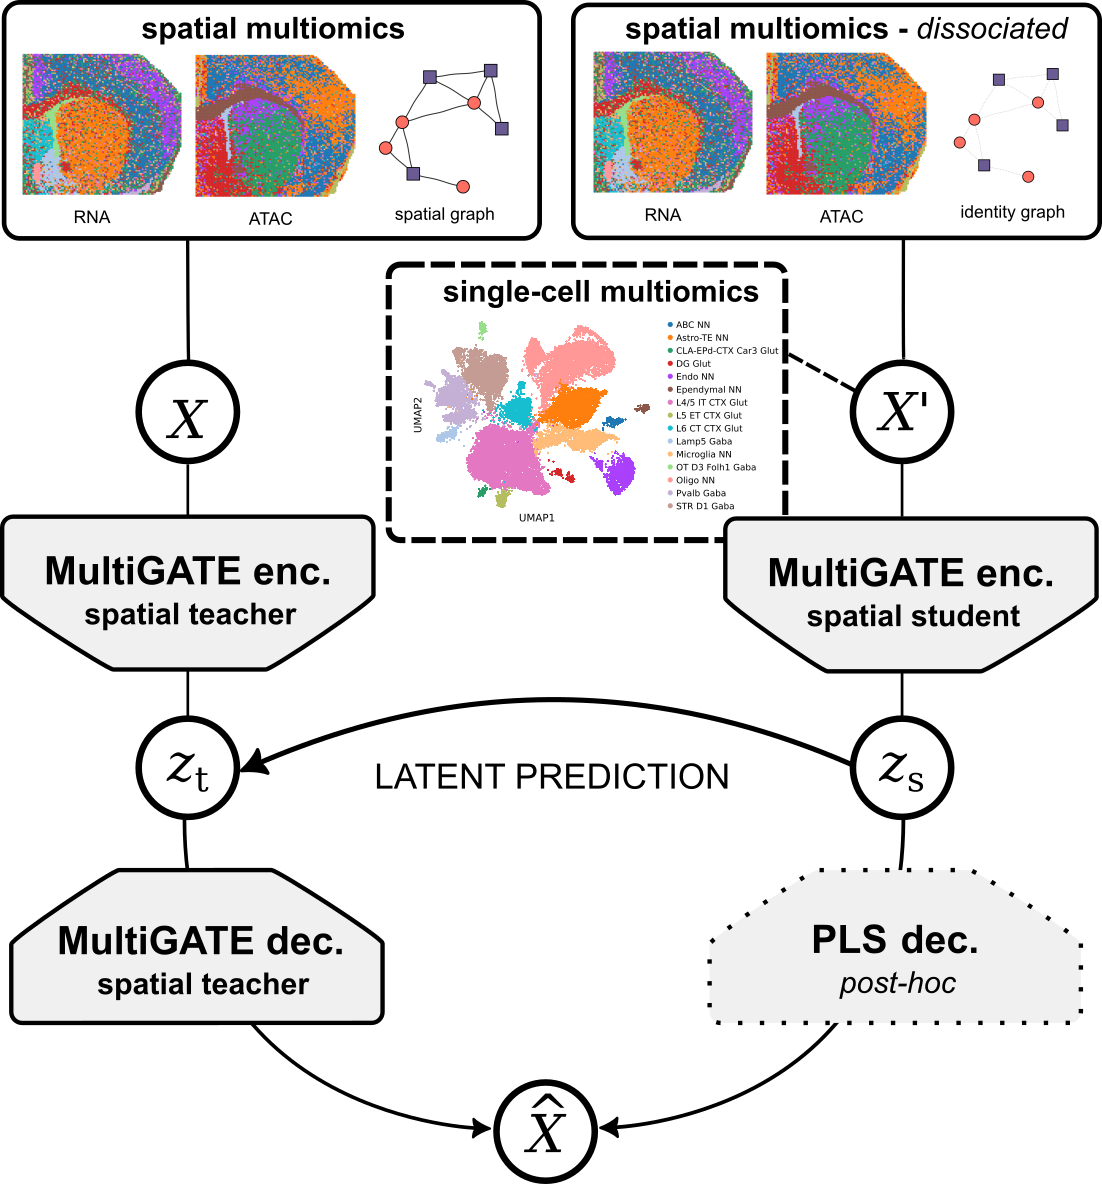
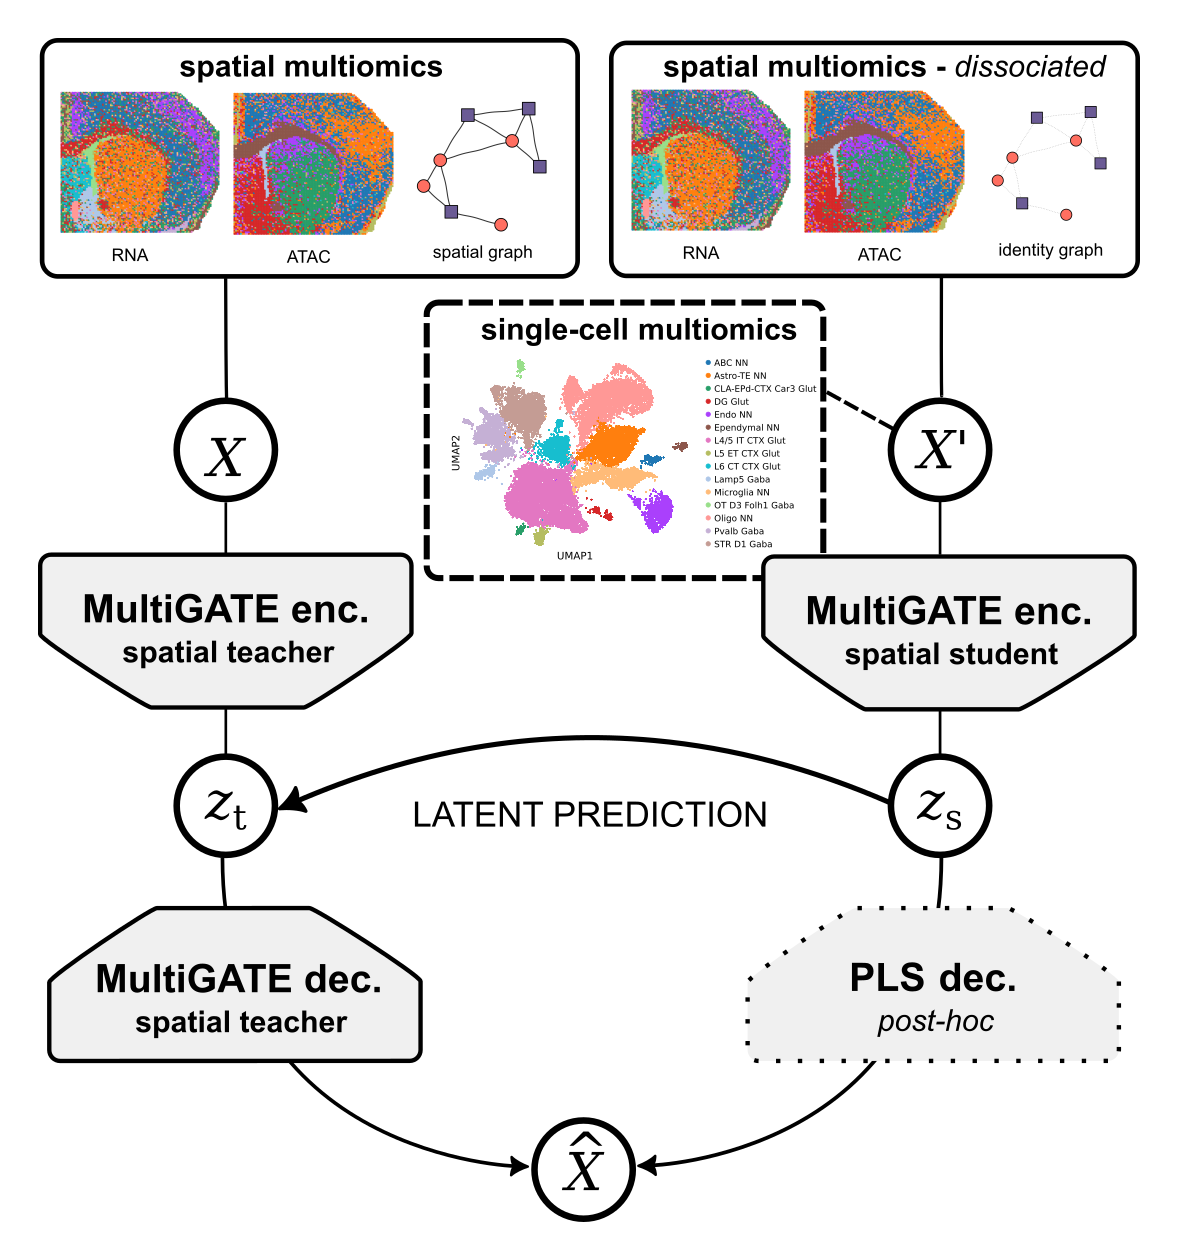
Update README.md to adjust image formatting for improved presentation of the SpatialJEPA methodology. Replace the existing methodology image with a new version to enhance visual clarity.

Changed region(s): [[0.0, 0.0, 1.0, 1.0], [0.2777, 0.5625, 0.7096, 0.6875]]

diff --git a/README.md b/README.md
@@ -4,7 +4,7 @@ SpatialJEPA is a JEPA-inspired framework for transferring spatial context from s
 
 In mouse brain RNA--ATAC experiments, SpatialJEPA supports source-to-target alignment, recovers spatially organized transcriptomic and chromatin-accessibility programs, and produces representations concordant with ligand--receptor pathway structure.
 
-<img src="fig/methodology.png" alt="SpatialJEPA methodology" style="background-color: white;">
+<img src="fig/methodology.png" alt="SpatialJEPA methodology" style="background-color: white; margin: 1cm;">
 
 ## Citation
 